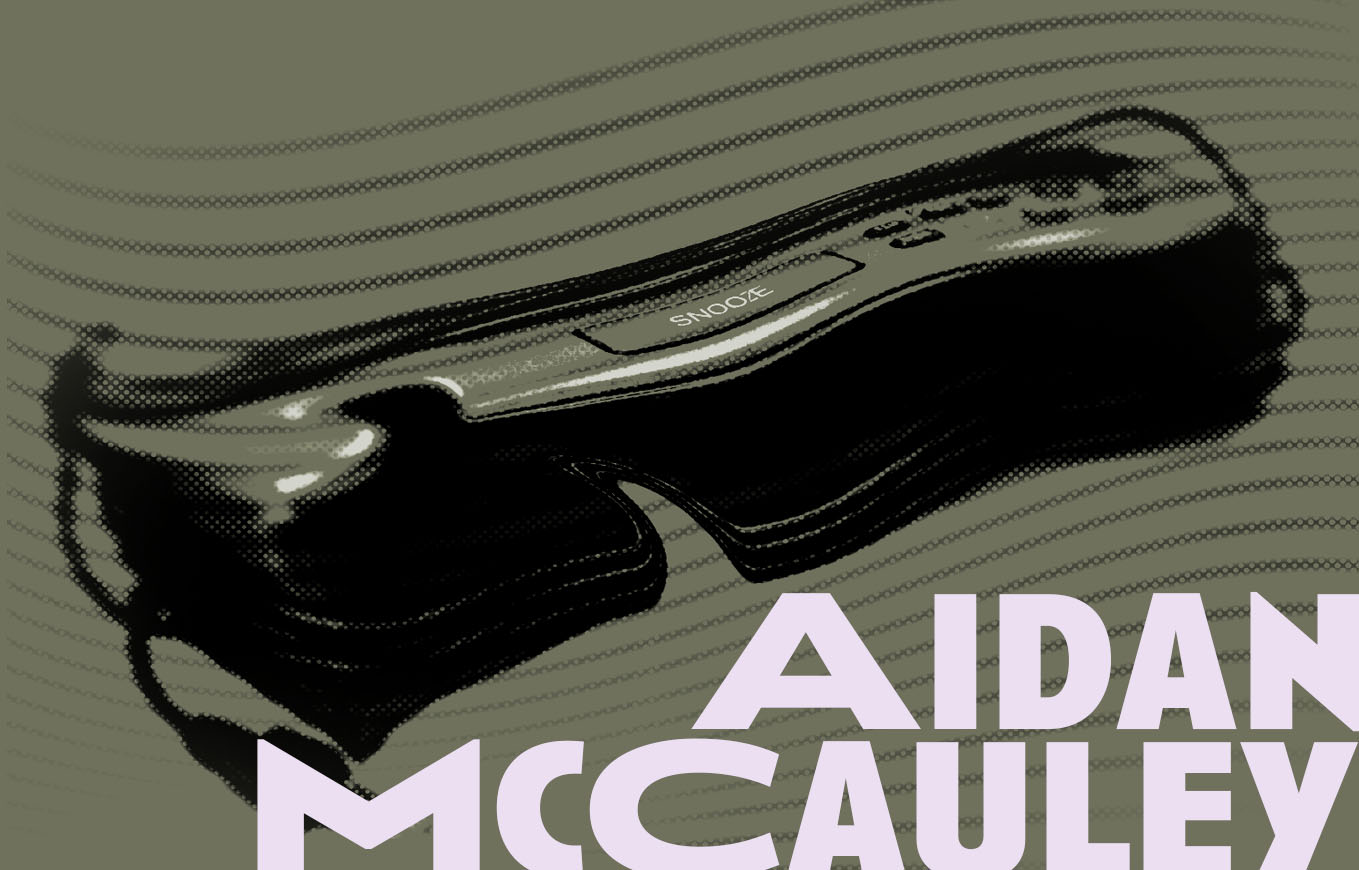
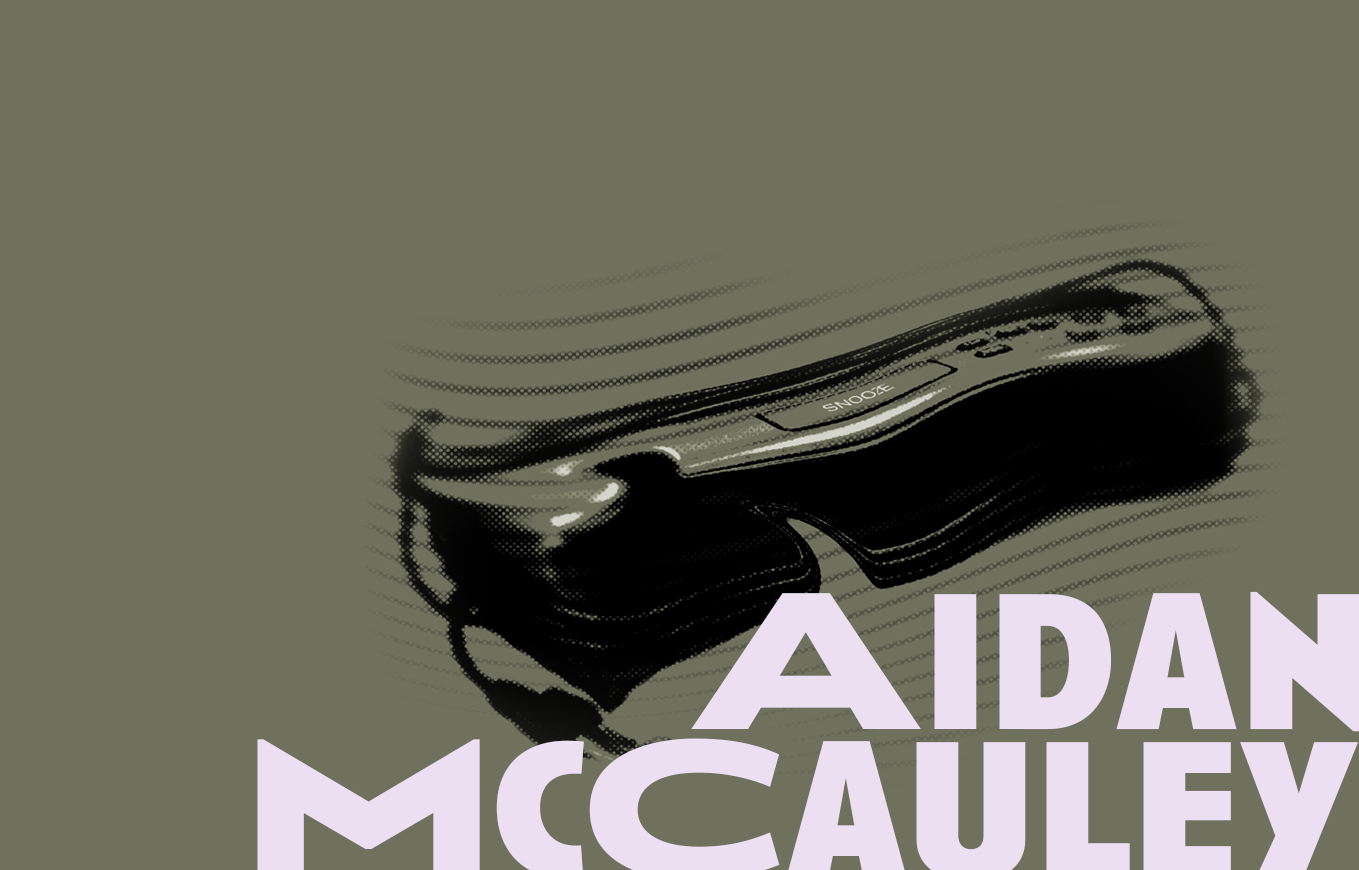
Update2

diff --git a/styles.css b/styles.css
@@ -16,6 +16,7 @@
   --nav-height: 10vh;
   --nav-bg: #d0d9c7;
   --main-bg: #6f715d;
+  --main-text: #ecdff2;
   --content-max: 800px;
 
   /* Section padding inside <main> (each .section-inner) */
@@ -57,16 +58,16 @@ body {
 }
 
 ::-webkit-scrollbar {
-    width: 12px;
+  width: 12px;
 }
 
 ::-webkit-scrollbar-track {
-    background-color: #d0d9c7;
-    border: 1px solid #d0d9c7;
+  background-color: #d0d9c7;
+  border: 1px solid #d0d9c7;
 }
 
 ::-webkit-scrollbar-thumb {
-    background-color: black;
+  background-color: black;
 }
 
 
@@ -301,8 +302,8 @@ html.no-section-dropdowns .mobile-menu-grid {
   display: block;
 }
 
-.dropdown li + li,
-.mobile-dropdown li + li {
+.dropdown li+li,
+.mobile-dropdown li+li {
   border-top: var(--border);
 }
 
@@ -382,21 +383,25 @@ header h1 {
   font-size: clamp(1rem, 1.02vw, 0.96rem);
   line-height: 1.22;
   letter-spacing: 0.01em;
-  color: #f5f7ef;
+  color: var(--main-text);
   text-wrap: balance;
   position: absolute;
-  top: calc(var(--nav-height) + 1.2rem);
-  left: var(--section-pad-inline);
+  top: calc(var(--nav-height));
+  left: 0;
   text-align: left;
 }
 
-@media (max-width: 900px) {
+@media (max-width: 1000px), (max-height: 525px) {
   .hero-intro {
     display: none;
   }
 }
 
-@media (min-width: 901px) {
+#mobile-intro {
+  color: var(--main-text);
+}
+
+@media (min-width: 1001px) and (min-height: 526px) {
   #mobile-intro {
     display: none;
   }
@@ -454,6 +459,21 @@ section {
 #contact {
   display: flex;
   flex-direction: column;
+
+  border-bottom: var(--border);
+  padding: calc(var(--nav-height) + 1.2rem) var(--section-pad-inline) 1.2rem;
+  display: flex;
+  flex-direction: column;
+  justify-content: center;
+  align-items: center;
+  background-color: #6f715d;
+  background-image: url("assets/contact.png");
+  background-size: 40vw;
+  background-position: top;
+  background-repeat: no-repeat;
+  position: relative;
+  width: 100%;
+  min-height: 60vh;
 }
 
 #portfolio {
@@ -473,13 +493,15 @@ section {
   flex: 1;
   display: flex;
   flex-direction: column;
-  justify-content: center;
+  justify-content: end;
   gap: clamp(1.2rem, 3.2vw, 2rem);
   padding-top: clamp(1rem, 2.5vw, 1.65rem);
   padding-bottom: clamp(1.15rem, 2.8vw, 1.85rem);
 }
 
-#contact .section-inner > h2 {
+
+
+#contact .section-inner>h2 {
   padding-top: 0;
 }
 
@@ -494,7 +516,7 @@ section {
   padding-bottom: clamp(3.1rem, 7vw, 5.2rem);
 }
 
-#portfolio .section-inner > h2 {
+#portfolio .section-inner>h2 {
   margin-bottom: clamp(0.85rem, 2.2vw, 1.65rem);
 }
 
@@ -514,7 +536,7 @@ section {
   padding-top: 0.15rem;
 }
 
-#portfolio .section-inner > .portfolio-block + .portfolio-block {
+#portfolio .section-inner>.portfolio-block+.portfolio-block {
   margin-top: clamp(1.5rem, 3vw, 2.25rem);
 }
 
@@ -529,8 +551,18 @@ h2 {
 
 .contact-wrap {
   display: flex;
-  justify-content: center;
+  flex-direction: row;
+  justify-content: space-between;
+  align-items: start;
   width: 100%;
+  color: var(--main-text);
+}
+
+@media (max-width: 900px) {
+  .contact-wrap {
+    flex-direction: column;
+    align-items: center;
+  }
 }
 
 .contact-links {
@@ -647,14 +679,13 @@ h2 {
 footer {
   border-bottom: var(--border);
   min-height: 25.5vh;
-  padding: clamp(2.1rem, 5vw, 3.4rem) var(--section-pad-inline)
-    calc(6rem + env(safe-area-inset-bottom));
+  padding: clamp(2.1rem, 5vw, 3.4rem) var(--section-pad-inline) calc(6rem + env(safe-area-inset-bottom));
   display: grid;
   place-items: center;
   row-gap: 1em;
   text-align: center;
-  background: var(--nav-bg);
-  color: #f8f8f2;
+  background: var(--main-bg);
+  color: var(--main-text);
 }
 
 /*
@@ -1014,19 +1045,20 @@ footer {
 } */
 
 /* @media (min-width: 901px) { */
-  .section-inner {
-    padding-top: clamp(3.4rem, 6vw, 5rem);
-  }
+.section-inner {
+  padding-top: clamp(3.4rem, 6vw, 5rem);
+}
 
-  #about .section-inner,
-  #portfolio .section-inner {
-    padding-top: clamp(4.8rem, 9vw, 6.8rem);
-    padding-bottom: clamp(7rem, 14vw, 10.5rem);
-  }
+#about .section-inner,
+#portfolio .section-inner {
+  padding-top: clamp(4.8rem, 9vw, 6.8rem);
+  padding-bottom: clamp(7rem, 14vw, 10.5rem);
+}
 
-  .mobile-panel {
-    display: none !important;
-  }
+.mobile-panel {
+  display: none !important;
+}
+
 /* } */
 
 @media (prefers-reduced-motion: reduce) {

diff --git a/index.html b/index.html
@@ -98,7 +98,7 @@
   <!-- ===== HERO: full-viewport image, name (h1), intro paragraph ===== -->
   <header>
     <div class="hero-inner">
-      <p class="hero-intro" id="heroIntro">I’m an advertising creative and artist who believes in getting hands-on with the work. This site is coded from scratch, not using a template—an ultralight space that reflects how I think and make. My approach to both art and advertising is the same: cut through the clutter, resist oversaturation, and create work that feels intentional, drawing from early internet nostalgia paired with modern clarity.</p>
+      <p class="hero-intro" id="heroIntro">I am an advertising creative and artist who believes in getting hands-on with the work. This site is coded from scratch, not using a template, an ultralight space that reflects how I think and make. My approach to both advertising and art is the same: cut through the clutter, resist oversaturation, and create intentional work, drawing from early internet nostalgia paired with modern clarity.</p>
     </div>
   </header>
 
@@ -110,7 +110,7 @@
         <div class="contact-wrap">
           <div class="contact-links">
             <p>
-              I’m an advertising creative and artist who believes in getting hands-on with the work. This site is coded from scratch, not using a template—an ultralight space that reflects how I think and make. My approach to both art and advertising is the same: cut through the clutter, resist oversaturation, and create work that feels intentional, drawing from early internet nostalgia paired with modern clarity.
+              I am an advertising creative and artist who believes in getting hands-on with the work. This site is coded from scratch, not using a template, an ultralight space that reflects how I think and make. My approach to both advertising and art is the same: cut through the clutter, resist oversaturation, and create intentional work, drawing from early internet nostalgia paired with modern clarity.
             </p>
           </div>
         </div>
@@ -118,20 +118,22 @@
     </section>
     <section id="contact" aria-labelledby="contact-heading">
       <div class="section-inner">
-        <h2 id="contact-heading">Contact</h2>
         <div class="contact-wrap">
-          <div class="contact-links">
             <p>
-              <a id="instagramLink" href="#" target="_blank" rel="noreferrer" aria-label="Instagram">
-                <span aria-hidden="true">📸</span> <span id="instagramLabel">Instagram</span>: <span id="instagramHandle"></span>
+              <a href="mailto:aidanmm04@icloud.com" aria-label="Email">
+                aidanmm04@icloud.com
               </a>
             </p>
             <p>
-              <a id="emailLink" href="mailto:" aria-label="Email">
-                <span aria-hidden="true">✉</span> <span id="emailLabel">Email</span>: <span id="emailAddress"></span>
+              <a href="tel:469-346-6010" target="_blank" rel="noreferrer" aria-label="Phone">
+                469-346-6010
               </a>
             </p>
-          </div>
+            <p>
+              <a href="https://www.linkedin.com/in/aidan-m-mccauley/" aria-label="LinkedIn">
+                LinkedIn
+              </a>
+            </p>
         </div>
       </div>
     </section>
@@ -163,8 +165,14 @@
 
   <!-- ===== FOOTER: back-to-top + copyright (colors in styles.css / :root) ===== -->
   <footer>
-    <button class="footer-top" id="backToTop" type="button" aria-label="Back to top">⬆  ⬆  ⬆</button>
-    <p class="footer-note" id="footerNote">© 2026 Aidan McCauley. Thanks for dropping by.</p>
+  
+    <p class="footer-note" id="footerNote">
+      This is a static website with no cookies, analytics, or surveillance. You are welcome to copy or adapt these files.
+      <br/>
+      “Go in peace! I will say: do not weep; for not all tears are an evil.” - Gandalf the White, Return of the King
+      <br/>
+      © 2026 Aidan McCauley.
+    </p>
   </footer>
 
   <!--

diff --git a/script.js b/script.js
@@ -114,18 +114,6 @@
     document.getElementById("aboutCopy").textContent = aboutText;
     document.getElementById("footerNote").textContent = footerNote;
 
-    const instagramLink = document.getElementById("instagramLink");
-    instagramLink.href = profile.instagramUrl;
-    instagramLink.setAttribute("aria-label", "Visit " + fullName + " Instagram");
-    document.getElementById("instagramLabel").textContent = profile.instagramLabel;
-    document.getElementById("instagramHandle").textContent = profile.instagramHandle;
-
-    const emailLink = document.getElementById("emailLink");
-    emailLink.href = "mailto:" + profile.email;
-    emailLink.setAttribute("aria-label", "Email " + fullName);
-    document.getElementById("emailLabel").textContent = profile.emailLabel;
-    document.getElementById("emailAddress").textContent = profile.email;
-
     document.title = fullName;
     const desc = "Portfolio, contact details, and creative work by " + fullName + ".";
     document.querySelector("meta[name='description']").setAttribute("content", fullName + " - portfolio, contact, and about.");
